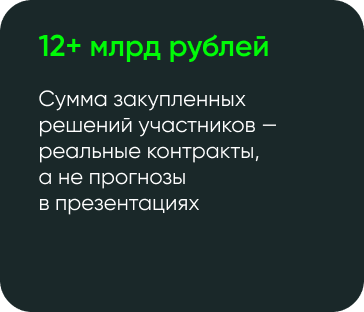
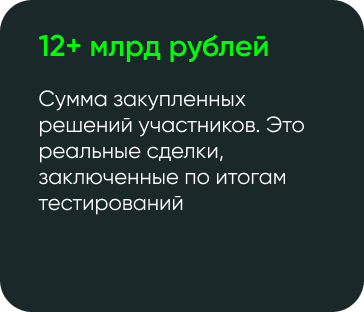
change mik-383

diff --git a/mik-383/Тестируйте инновации в Москве.html b/mik-383/Тестируйте инновации в Москве.html
@@ -132,7 +132,7 @@
                             <tbody>
                             <tr>
                                 <td align="left" style="font-size:0px;word-break:break-word;">
-                                    <div style="font-family: Gilroy, Helvetica, Arial, sans-serif;font-size:16px;font-weight:400;line-height:120%;text-align:left;color:#000000;">Вы&nbsp;можете сколько угодно тестировать новые технологии в&nbsp;лаборатории. А&nbsp;можете сразу проверить их&nbsp;жизнеспособность в&nbsp;городе, где&nbsp;живут миллионы людей. Москва дает такую возможность.</div>
+                                    <div style="font-family: Gilroy, Helvetica, Arial, sans-serif;font-size:16px;font-weight:400;line-height:120%;text-align:left;color:#000000;max-width:495px;width:100%;">Москва дает технологическим компаниям возможность проверить свои решения в&nbsp;условиях реального мегаполиса, где живут миллионы людей.</div>
                                 </td>
                             </tr>
                             </tbody>
@@ -204,7 +204,7 @@
                                         <tbody>
                                         <tr>
                                             <td style="width:183px;">
-                                                <img alt="12+ млрд рублей. Сумма закупленных решений участников — реальные контракты, а не прогнозы в презентациях" height="auto" src="https://cp.unisender.com/ru/user_file?resource=images&user_id=5608985&name=mik-383-content-img-1_2.png" style="border:0;display:block;outline:none;text-decoration:none;height:auto;width:100%;font-size:13px;" width="183" />
+                                                <img alt="12+ млрд рублей. Сумма закупленных решений участников. Это реальные сделки, заключенные по итогам тестирований" height="auto" src="https://cp.unisender.com/ru/user_file?resource=images&user_id=5608985&name=mik-383-content-img-1_2.png" style="border:0;display:block;outline:none;text-decoration:none;height:auto;width:100%;font-size:13px;" width="183" />
                                             </td>
                                         </tr>
                                         </tbody>
@@ -252,7 +252,7 @@
                             <tbody>
                             <tr>
                                 <td align="left" style="font-size:0px;word-break:break-word;padding:23px 0 29px;">
-                                    <div style="font-family: Gilroy, Helvetica, Arial, sans-serif;font-size:30px;font-weight:500;line-height:120%;text-align:left;color:#000000;max-width:540px;width:100%;">ТЕСТИРОВАНИЯ, ГРАНТЫ И&nbsp;ВНЕДРЕНИЯ — В&nbsp;ОДНОМ МАРШРУТЕ</div>
+                                    <div style="font-family: Gilroy, Helvetica, Arial, sans-serif;font-size:30px;font-weight:500;line-height:120%;text-align:left;color:#000000;">ТЕСТИРОВАНИЯ, ГРАНТЫ И&nbsp;ВНЕДРЕНИЕ РЕШЕНИЙ — В&nbsp;ОДНОМ ИНСТРУМЕНТЕ ПОДДЕРЖКИ.</div>
                                 </td>
                             </tr>
                             </tbody>
